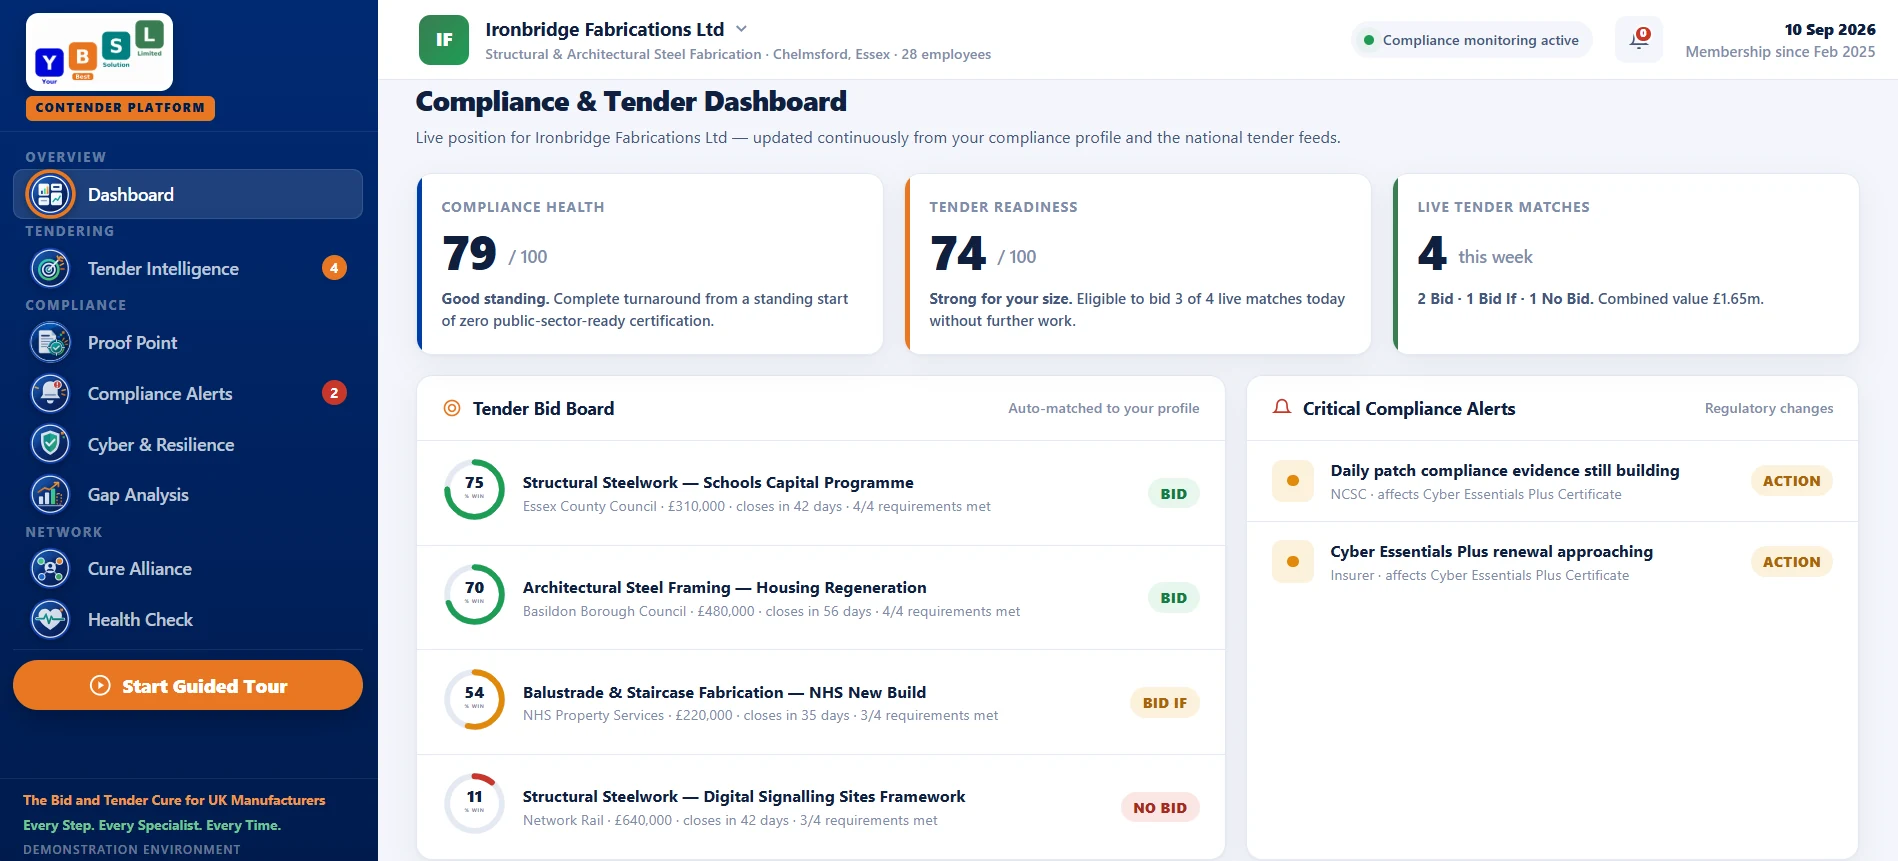
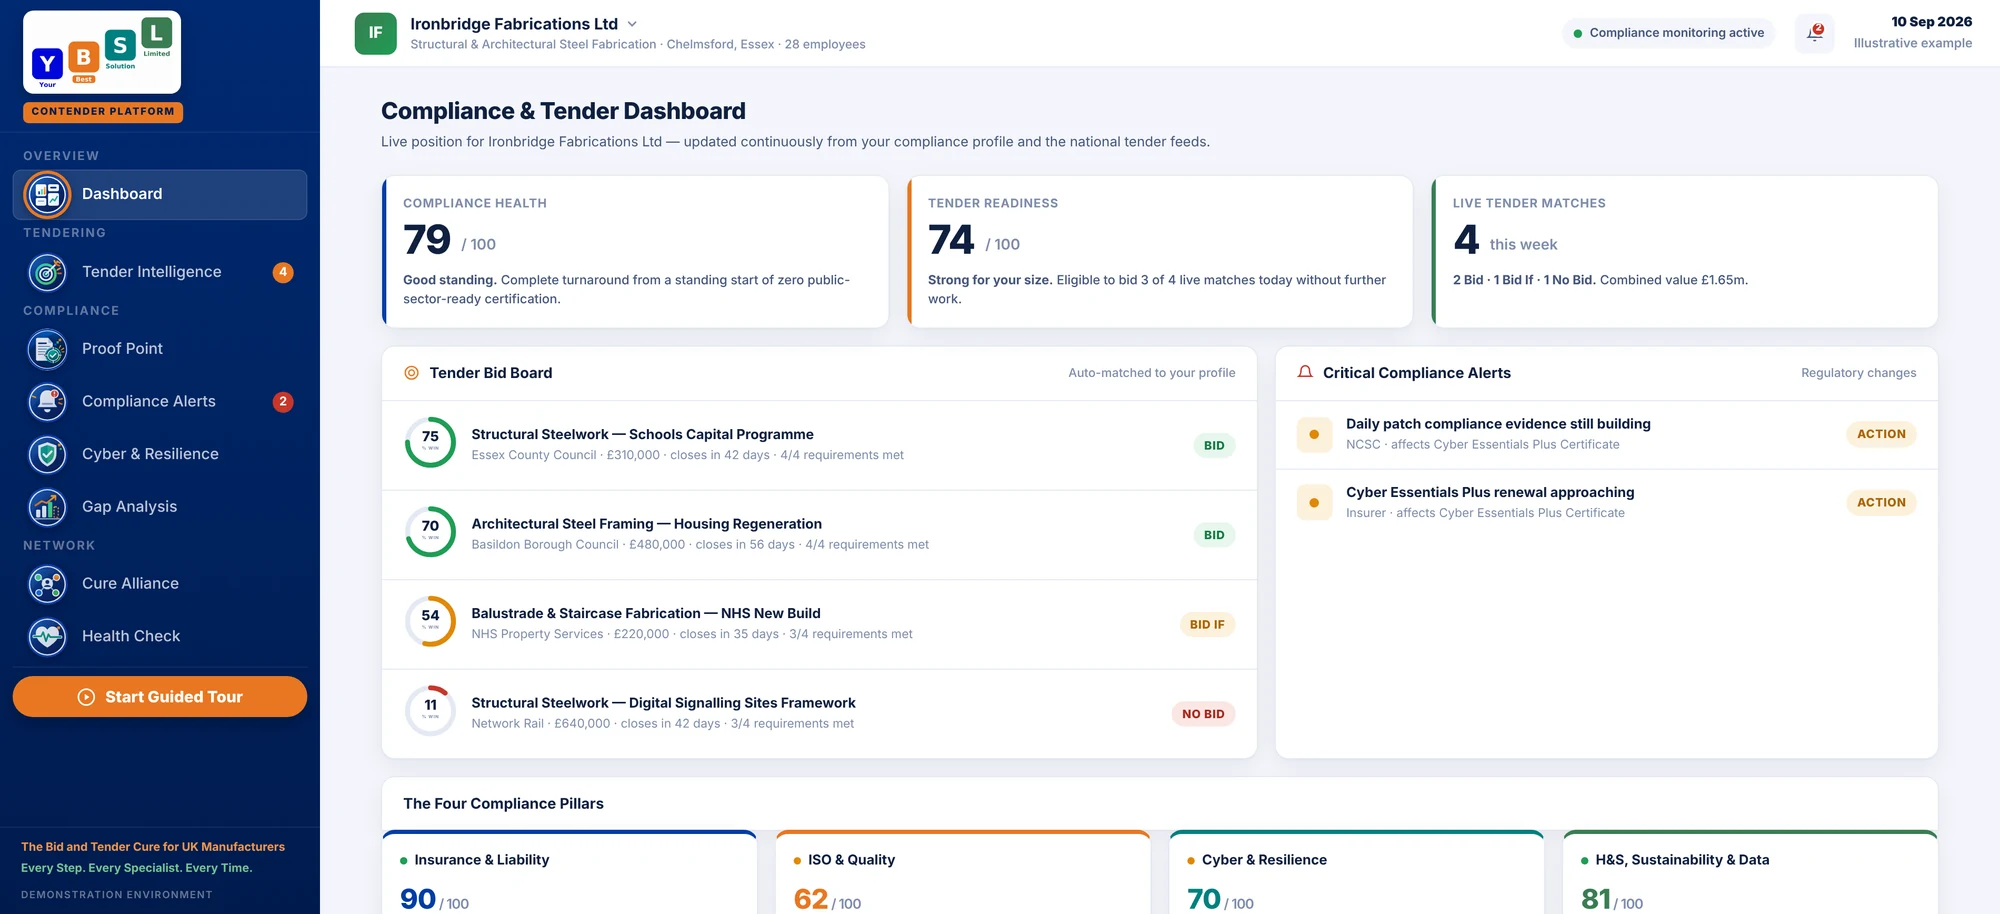
Refresh Contender demo image after fixing example date and bell count
Claude-Session: https://claude.ai/code/session_01TJp2SfCTmcaW943HdcwSb1

diff --git a/index.html b/index.html
@@ -803,7 +803,7 @@
     </div>
     <div class="cd-demo rev in" id="contender-demo">
       <a href="https://claude.ai/artifact/CThx9XWwA8btkLT8CUEqoN" target="_blank" rel="noopener" class="cd-shot">
-        <picture><source srcset="contender-demo.webp" type="image/webp"><img src="contender-demo.jpg" width="1898" height="861" loading="lazy"
+        <picture><source srcset="contender-demo.webp" type="image/webp"><img src="contender-demo.jpg" width="2000" height="914" loading="lazy"
              alt="Contender dashboard showing compliance health, tender readiness, live tender matches and compliance alerts for an example manufacturer"></picture>
       </a>
       <a href="https://claude.ai/artifact/CThx9XWwA8btkLT8CUEqoN" target="_blank" rel="noopener" class="cd-btn">
